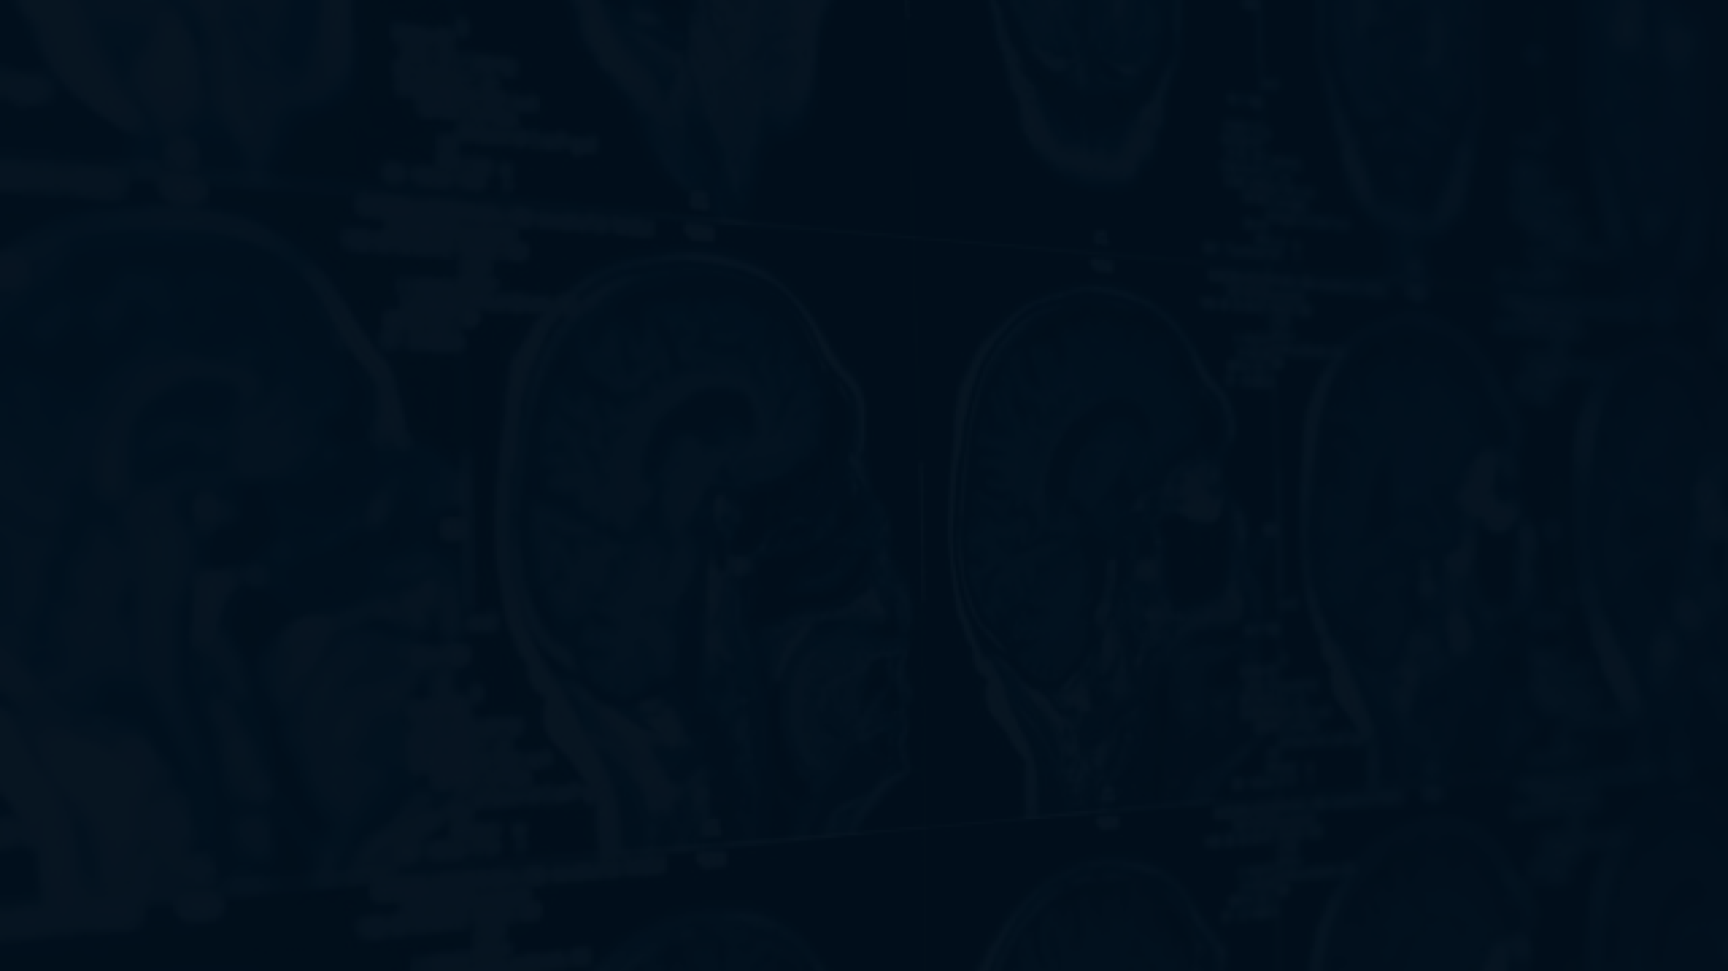
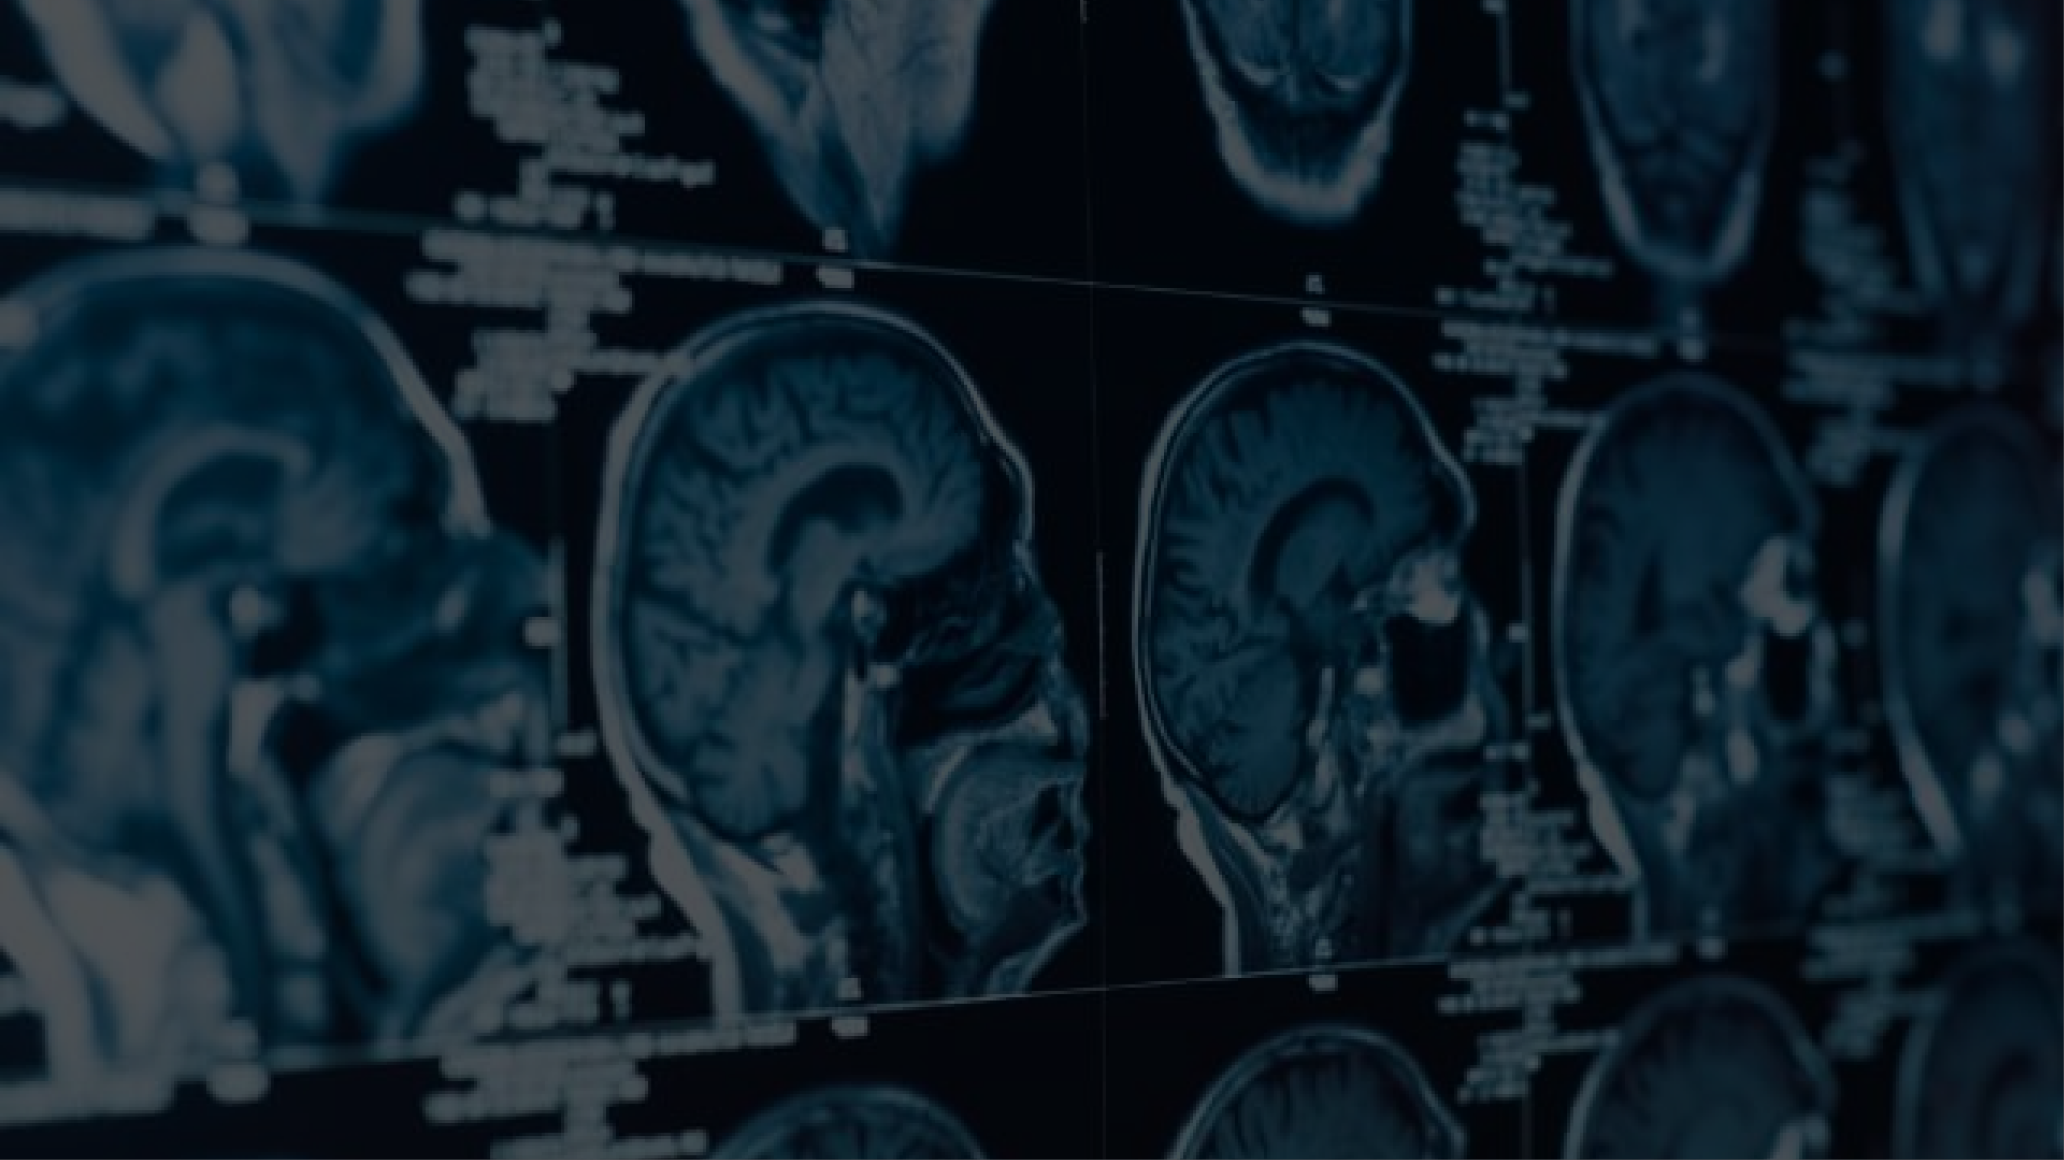
ajustes de css

diff --git a/src/assets/css/searchPatient.css b/src/assets/css/searchPatient.css
@@ -1,7 +1,7 @@
 @import url('https://fonts.googleapis.com/css2?family=Alegreya+SC:wght@400;500;700;800;900;1000&display=swap');
 
 .patientContent {
-  background-color: #041D33;
+  background-color: #010F1C;
   color: white;
   margin: 40px 40px 0;
   min-height: 80vh;
@@ -30,7 +30,7 @@
 }
 
 .searchById input[type="text"] {
-  width: 200px;
+  width: 300px;
   padding: 10px;
   border: 1px solid #ccc;
   border-radius: 4px;
@@ -86,7 +86,7 @@ span {
 
 .searchInputs {
   margin-top: 20px;
-  width: 75%;
+  width: 80%;
 }
 
 .searchInputs h3 {
@@ -108,6 +108,10 @@ span {
   align-items: start;
 }
 
+.infoCadastroPatient .nome {
+  width: 80%;
+}
+
 .infoCadastroPatient label {
   font-size: 1.1rem;
   font-weight: 500;
@@ -119,11 +123,14 @@ span {
   font-size: 1rem;
   padding: 10px;
   border-radius: 5px;
+  font-family: 'Alegreya SC', serif;
 }
 
 .infoCadastroPatient input:focus {
   outline: none;
   box-shadow: 3px 3px 10px #000000;
+  font-family: 'Alegreya SC', serif;
+
 }
 
 input::placeholder {
@@ -165,12 +172,14 @@ input::placeholder {
 
 select {
   border: none;
-  padding: 11px;
+  padding: 10px;
   background-color: #f0f0f0; 
   color: #333; 
   border-radius: 5px;
   border: 1px solid #ccc;
+  font-size: 1rem;
   width: 100%;
+  font-family: 'Alegreya SC', serif;
 }
 
 select::-ms-expand {
@@ -180,4 +189,5 @@ select::-ms-expand {
 .select:focus {
   outline: none;
   box-shadow: 3px 3px 10px #000000;
+
 }

diff --git a/src/assets/css/laudo.css b/src/assets/css/laudo.css
@@ -1,8 +1,8 @@
 
 @import url('https://fonts.googleapis.com/css2?family=Alegreya+SC:wght@400;500;700;800;900;1000&display=swap');
 
-.inicialContent {
-    background-image: url('../img/backgroundDark.png');
+.inicialContentLaudo {
+    background-image: url('../img/backgroundBlue.png');
     background-size: cover;
     background-position: center;
     background-repeat: no-repeat;
@@ -11,6 +11,7 @@
     display: flex;
     align-items: center;
     justify-content: center;
+    background-color: #010F1C;
 }
 
 .textContentLaudo {

diff --git a/src/components/upload.js b/src/components/upload.js
@@ -17,7 +17,7 @@ const Upload = () => {
             <div>
                 <Header />
             </div>
-            <div className="inicialContent">
+            <div className="inicialContentUpload">
                 <div className='textContentUpload'>
                     <h1>Seus dados foram enviados com sucesso!</h1>
                     <h3>Aguarde um instante para receber o Laudo</h3>

diff --git a/src/assets/css/upload.css b/src/assets/css/upload.css
@@ -1,7 +1,7 @@
 @import url('https://fonts.googleapis.com/css2?family=Alegreya+SC:wght@400;500;700;800;900;1000&display=swap');
 
-.inicialContent {
-    background-image: url('../img/backgroundDark.png');
+.inicialContentUpload {
+    background-image: url('../img/backgroundBlue.png');
     background-size: cover;
     background-position: center;
     background-repeat: no-repeat;

diff --git a/src/components/laudo.js b/src/components/laudo.js
@@ -16,7 +16,7 @@ const Laudo = () => {
             <div>
                 <Header />
             </div>
-            <div className="inicialContent">
+            <div className="inicialContentLaudo">
                 <div className='textContentLaudo'>
                     <h1>Laudo pronto!</h1>
                     <img src={laudo} alt="Imagem de exemplo de um laudo" />

diff --git a/src/components/searchPatient.js b/src/components/searchPatient.js
@@ -132,7 +132,7 @@ const PatientSearch = () => {
           <h3>Cadastrar Paciente</h3>
           <form onSubmit={handleSubmit}>
             <div className='infoCadastroPatient'>
-              <div>
+              <div className='nome'>
                 <label>Nome Completo</label>
                 <input
                   type="text"

diff --git a/src/assets/css/attach.css b/src/assets/css/attach.css
@@ -1,7 +1,7 @@
 @import url('https://fonts.googleapis.com/css2?family=Alegreya+SC:wght@400;500;700;800;900;1000&display=swap');
 
 .attachContent {
-    background-color: #041D33;
+    background-color: #010F1C;
     color: white;
     margin: 40px 40px 0;
     min-height: 70vh;

diff --git a/src/assets/css/home.css b/src/assets/css/home.css
@@ -53,7 +53,7 @@ body {
   }
   
   .secondContent {
-    background-color: #041D33;
+    background-color: #010F1C;
     color: white;
     display: flex;
     flex-direction: column;

diff --git a/src/assets/css/header.css b/src/assets/css/header.css
@@ -1,7 +1,7 @@
 /* Header.css */
 
 header {
-  background-color: #041D33;
+  background-color: #010F1C;
   color: white;
   display: flex;
   justify-content: space-between;

diff --git a/src/assets/css/footer.css b/src/assets/css/footer.css
@@ -1,5 +1,5 @@
 footer {
-    background-color: #041D33;
+    background-color: #010F1C;
     color: white;
     display: flex;
     flex-direction: column;
